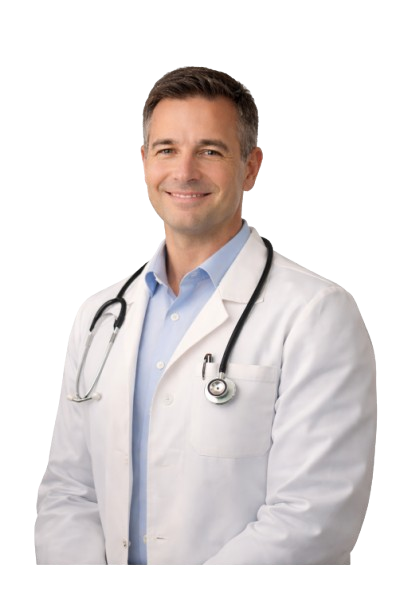
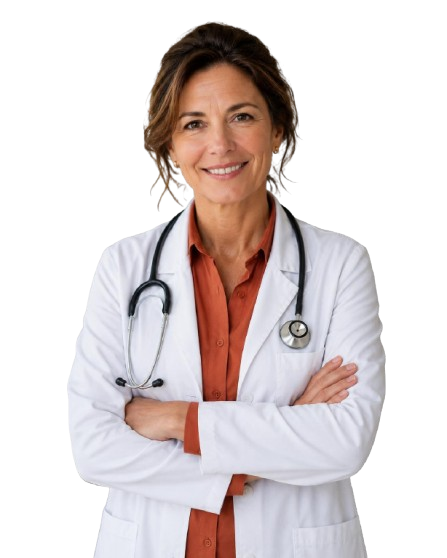
Change step 2 picture

diff --git a/src/components/NewTrustSection/NewTrustSection.tsx b/src/components/NewTrustSection/NewTrustSection.tsx
@@ -292,7 +292,7 @@ const NewTrustSection = () => {
                       className="font-normal text-[#6E6A60] text-[16px]"
                       style={{ fontFamily: FONT_INTER, lineHeight: 1.6 }}
                     >
-                      Approbierte Ärzte prüfen deine Angaben und stellen bei Bedarf ein Rezept aus.
+                      Approbierte Ärzte prüfen deine Angaben und stellen bei Bedarf ein Rezept für das Abnehm- Medikament aus.
                     </p>
                   </div>
                   <div className="flex justify-center flex-1 items-end min-h-0 pt-3">